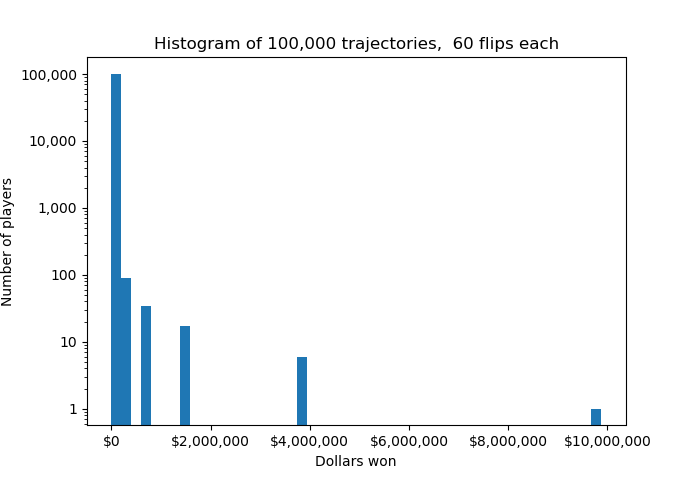
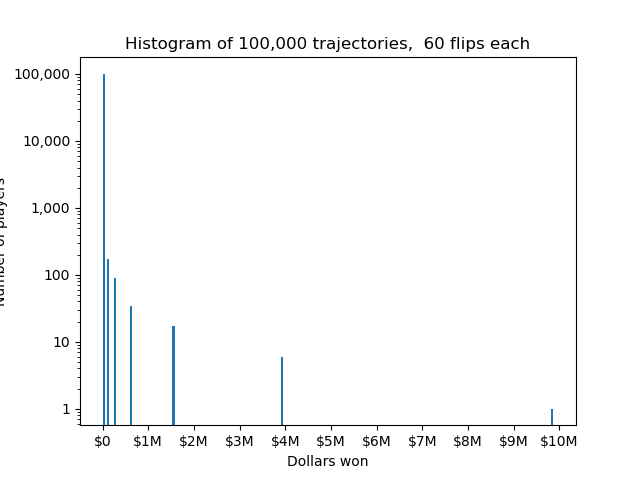
update histograms

diff --git a/make graphs.py b/make graphs.py
@@ -88,10 +88,11 @@ fig.savefig('images/100,000 trajectories - 60 flips.png')
 
 
 fig, ax = plt.subplots()
-all_trajects_end_vals.hist(grid=False, bins=50)
+(all_trajects_end_vals/1000000).hist(grid=False, bins=200)
 ax.set_yscale("log")
 ax.yaxis.set_major_formatter(tick.StrMethodFormatter('{x:,.0f}'))
-ax.xaxis.set_major_formatter(tick.StrMethodFormatter('${x:,.0f}'))
+ax.xaxis.set_major_locator(tick.MultipleLocator(1))
+ax.xaxis.set_major_formatter(tick.IndexFormatter(['$0', '$1M', '$2M', '$3M', '$4M', '$5M', '$6M', '$7M', '$8M', '$9M', '$10M']))
 ax.set_xlabel("Dollars won")
 ax.set_ylabel("Number of players")
 ax.set_title("Histogram of 100,000 trajectories,  60 flips each")
@@ -99,13 +100,14 @@ fig.savefig('images/Histogram 100,000 trajectories - 60 flips.png')
 
 #histogram for people that ended with more than $10,000
 fig, ax = plt.subplots()
-all_trajects_end_vals[all_trajects_end_vals > 10000].hist(color="maroon",grid=False, bins=50)
+(all_trajects_end_vals[all_trajects_end_vals > 10000]/1000000).hist(color="maroon",grid=False, bins=200)
 ax.set_yscale("log")
 ax.yaxis.set_major_formatter(tick.StrMethodFormatter('{x:,.0f}'))
-ax.xaxis.set_major_formatter(tick.StrMethodFormatter('${x:,.0f}'))
+ax.xaxis.set_major_locator(tick.MultipleLocator(1))
+ax.xaxis.set_major_formatter(tick.IndexFormatter(['$0', '$1M', '$2M', '$3M', '$4M', '$5M', '$6M', '$7M', '$8M', '$9M', '$10M']))
 ax.set_xlabel("Dollars won")
 ax.set_ylabel("Number of players")
-ax.set_title("Histogram of 100,000 trajectories, ended with more than $10,000,  60 flips each")
+ax.set_title("Histogram of 100,000 trajectories, ended with more than $10,000\n60 flips each")
 fig.savefig('images/Histogram 100,000 trajectories, ended with more than $10,000 - 60 flips.png')
 sum(all_trajects_end_vals < 1)
 #34,923 players have less than $1!
